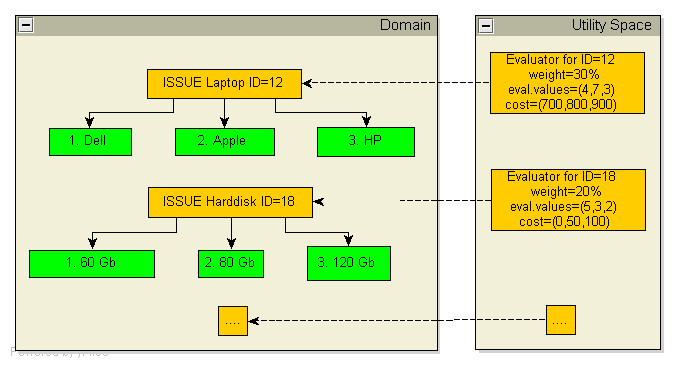
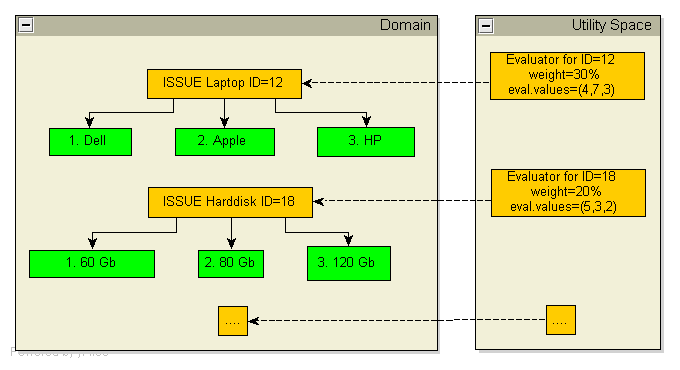
Updating manual, work in progress

Changed region(s): [[0.7103, 0.5649, 0.9574, 0.6243], [0.7103, 0.2676, 0.9574, 0.327]]

diff --git a/doc/userguide.tex b/doc/userguide.tex
@@ -46,9 +46,6 @@
 %\fi
 
 
-\newcommand\AI[1]{{}} \newcommand\ANAC[1]{{#1}}
-%\newcommand\AI[1]{{#1}} \newcommand\ANAC[1]{{}}
-
 \usepackage{array}
 \usepackage{url}
 \usepackage{listings}
@@ -76,8 +73,8 @@
 \else
 \usepackage{graphicx}
 \fi
-\title{Negotiation User Guide - \ANAC{ANAC Version}\AI{AI Techniques (IN4010TU) Version}}
-\author{T. Baarslag, W. Pasman, K. Hindriks, D. Tykhonov, W. Visser}
+\title{Negotiation User Guide}
+\author{T. Baarslag, W. Pasman, K. Hindriks, D. Tykhonov, W. Visser, M. Hendrikx}
 
 \date{\today}
 
@@ -113,7 +110,7 @@
 
 \newcommand\Genius{{\sc Genius}}
 
-\abstract{In Genius, you can implement and analyze an agent that negotiates on your behalf. This document describes how you can install the required environment, work with the provided agents, and write, compile, and run such an agent yourself.}
+\abstract{\noindent In \Genius, you can implement and analyze an agent that negotiates on your behalf. This document describes how you can install the required environment, work with the provided agents, and write, compile, and run such an agent yourself.}
 
 \pagebreak
 \tableofcontents
@@ -123,7 +120,7 @@
 This section gives a crash course on some essential theory needed to understand the negotiation system. The negotiation objects that are used in a negotiation and utility values are discussed. 
 
 \subsection{Actions}
-In negotiation, the two parties take turns in doing the next negotiation action. The possible actions are:
+In negotiation, the two parties take turns in doing the next negotiation action. The possible actions implemented in \Genius~are:
 
 \begin{center}
 \begin{tabular}{cm{0.6\textwidth}}
@@ -132,36 +129,35 @@ In negotiation, the two parties take turns in doing the next negotiation action.
 \hline
 \textsc{Offer} & This action indicates that the agent proposes a new bid.\\
 \hline
-\textsc{EndNegotiation} & This action indicates that the agent terminates the entire negotiation, resulting in the reservation value being awarded to both players (see below; normally this is equal to the lowest possible score of zero for both agents).\\
+\textsc{EndNegotiation} & This action indicates that the agent terminates the negotiation, resulting in the reservation value being awarded to both players (see below).\\
 \hline
 \end{tabular}
 \end{center}
 
 \subsection{Negotiation Protocol}
-The negotiation protocol determines the overall order of actions during a negotiation. Agents are obliged to stick to this protocol, and deviations from the protocol are caught and penalized. This section discusses the details of the protocol\AI{ for this assignment}.
+The negotiation protocol determines the overall order of actions during a negotiation. Agents are obliged to stick to this protocol, and deviations from the protocol are caught and penalized. This section discusses the details of the default alternating offers protocol used in \Genius.
 
-Agent $A$ and $B$ take turns in the negotiation. One of the two agents is picked at random to start. When it is the turn of agent $X$ (X being $A$ or $B$), that agent is informed about the action taken by the opponent. If the action was an \textsc{Offer}, agent $X$ is subsequently asked to determine its next action and the turn taking goes to the next round. If it is not an \textsc{Offer}, the negotiation has finished. The turn taking stops and the final score (utility of the last bid) is determined for each of the agents, as follows:
+Agent $A$ and $B$ take turns in the negotiation. Agent $A$ starts the negotiation. When it is the turn of agent $X$ (X being $A$ or $B$), that agent is informed about the action taken by the opponent. If the action was an \textsc{Offer}, agent $X$ is subsequently asked to determine its next action and the turn taking goes to the next round. If it is not an \textsc{Offer}, the negotiation has finished. The turn taking stops and the final score (utility of the last bid) is determined for each of the agents, as follows:
 \begin{itemize}
 	\item the action of agent $X$ is an \textsc{Accept}. This action is possible only if the opponent actually did a bid. The last bid of the opponent is taken, and the utility of that bid is determined in the utility spaces of agent $A$ and $B$. The opponent is informed of this accept via the ReceiveMessage method (but now without the subsequent chooseAction).
-	\item the action returned is an \textsc{EndNegotiation}. The score of both agents is set to their reservation value.
+	\item the action returned is an \textsc{EndNegotiation}, which may be presented by an agent, or when the deadline has passed. The score of both agents is set to their reservation value.
 \end{itemize}
 
-So far for the protocol. If an agent does not follow this protocol, for instance by sending another action that is not one of the above or by crashing, the agents will also \ANAC{get their reservation values}\AI{score zero}. If the agent deviates grossly from the protocol in such a way that it endangers the negotiation simulator itself, it may be disqualified entirely.
+So far for the protocol. If an agent does not follow this protocol, for instance by sending another action that is not one of the above or by crashing, the agents will also get their reservation values. If the agent deviates grossly from the protocol in such a way that it endangers the negotiation simulator itself, it may be disqualified entirely.
  
 \subsection{Reservation Value}
+A reservation value is a real-valued constant that sets a threshold below which a rational agent should not accept any offers. Intuitively, a reservation value is the utility associated with the Best Alternative to a Negotiated Agreement (BATNA). A reservation value is the utility that an agent will obtain if no agreement is realized in a negotiation session. This can happen either by breaking off the negotiation (a non-zero reservation value makes breaking off potentially interesting) or by not reaching an agreement before the deadline associated with a negotiation session. In other words: either the negotiating parties agree on an outcome $\omega$, and both agents receive the associated utility of $\omega$, or: no agreement is reached, and both agents receive their reservation value instead.
 
-A reservation value is a real-valued value that sets a threshold below which a rational agent should not accept any offers. Intuitively, a reservation value is the utility associated with a Best Alternative to a Negotiated Agreement (BATNA). A reservation value is the utility that an agent will obtain if no agreement is realized in a negotiation session. This can happen either by breaking off the negotiation (a non-zero reservation value makes breaking off potentially interesting) or by not reaching an agreement before the deadline associated with a negotiation session. In other words: either the negotiating parties agree on an outcome $\omega$, and both agents receive the associated utility of $\omega$, or: no agreement is reached, and both agents receive their reservation value instead.
-
-Reservation values typically are different for each of the negotiating agents that negotiate in a session. In case no reservation value is set in a profile, the reservation value of an agent is set to zero (0). Given that utilities for outcomes range from 0 to 1, this essentially is the same as having no reservation value.
+Reservation values typically are different for each of the negotiating agents that negotiate in a session. In case no reservation value is set in a profile, the reservation value of an agent is set to zero (0).
 
 
 \subsection{Time available for a Session}
+A negotiation lasts a predefined time in seconds, or alternatively, rounds. Note the difference between time and rounds: in a time-based protocol the computational cost of an agent should be taken into account as it directly influences the amount of bids which can be made. In contrast, for a rounds-based negotiation the time can be thought of as frozen inside a round; therefore computational cost does not play a role.
 
-Normally, each negotiation session is allowed to last at most 180 seconds. If no agreement has been reached before this time, the negotiation will be terminated by killing the negotiation agents, and the utility of both parties will be their reservation value (normally 0). Only if (at least) one of the agents is a GUI agent requiring user input, the deadline is set to 1800 seconds. Notice that manipulation of the available time (by delaying the response of the agent) can be an important factor influencing the negotiation results, and one improvement for the example agent (SimpleAgent) would be to be more careful about this.
+Normally, each negotiation session is allowed to last at most 180 seconds. If no agreement has been reached before this time, the negotiation will be terminated by killing the negotiation agents, and the utility of both parties will be their reservation value (normally 0). Only if (at least) one of the agents is a GUI agent requiring user input, the deadline is set to 1800 seconds. Notice that manipulation of the available time (by delaying the response of the agent) can be an important factor influencing the negotiation results.
 
-Note that in the negotiation environment, the time line is \emph{normalized}, i.e.: time $t \in [0, 1]$, where $t = 0$ represents the start of the negotiation, and $t = 1$ represents the deadline. Agents should not rely on the assumption that the negotiation time window corresponds to 180 seconds in real--time, but are required only to rely on the normalized time. 
-
-\subsubsection{Discounting}
+Note that in the negotiation environment, the time line is \emph{normalized}, i.e.: time $t \in [0, 1]$, where $t = 0$ represents the start of the negotiation, and $t = 1$ represents the deadline. Agents should not rely on the assumption that the negotiation time window corresponds to 180 seconds in real--time, but are required only to rely on the normalized time.
+\newline \newline
 Apart from a deadline, a scenario may also have \emph{discount factors}. Discount factors devaluate the value of the issues under negotiation as time passes. Time is shared between the agents, but the discount is private to, and can different between each agent. The implementation of discount factors is as follows. Let $d$ in $[0, 1]$ be the discount factor that is specified in the preference profile of an agent. Let $t$ in $[0, 1]$ be the current normalised time, as defined by the timeline. We compute the discounted utility $U_D^t$ of an outcome $\omega$ from the undiscounted utility function $U$ as follows:
 \begin{eqnarray}
 U_D^t(\omega) = U(\omega) \cdot d^t
@@ -170,14 +166,12 @@ If $d = 1$, the utility is not affected by time, and such a scenario is consider
 
 If a discount factor is present, reservation values will be discounted in exactly the same way as the utility of any other outcome. It is worth noting that, by having a discounted reserve price, it may be rational for an agent to break off the negotiation early and take the outside option.
 
-Note that, as opposed to having a fixed number of rounds, both the discount factor and deadline are measured in {\it real time}. This, in turn, introduces another factor of uncertainty since it is unknown to the agents how many negotiation rounds there will be, and how much time an opponent requires to compute a counter offer. Also, this computational time will typically change depending on the size of the outcome space. 
-
 \subsection{Negotiation Objects}
 The central data structures in the negotiation are the bid and the utilityspace. Both work in a domain. Figure~\ref{Fig:data structure and relation overview} shows an overview of the Domain and utility space data structures and their relations.
 
 \begin{figure}[htb]
 	\centering
-	\includegraphics[width=0.4\textwidth]{media/datastructures.png}
+	\includegraphics[width=0.5\textwidth]{media/datastructures.png}
 	\caption{Overview of the data structures and relations.}\label{Fig:data structure and relation overview}
 \end{figure}
 
@@ -197,34 +191,14 @@ The exact formula for computation of the utilities is given in Equation~\ref{eqn
 
 The {\bf bid} is a set of values for each of the issues in the domain.
 
-\subsection{Utility of a Bid}
-
-A bid is a set of chosen values $v_1, \ldots, v_n$  for each of the $N$ issues. Each of these values has been assigned an evaluation value $\text{eval}(v_i)$ in the utility space. \AI{Sometimes, there are also fixed costs $\text{cost}(v_i)$ associated with each value.} The utility is the weighted sum of the normalized evaluation values\AI{, under the assumption that the cost is below the maximum cost of $M$. If the maximum cost is exceeded, the utility is zero}.
+\subsection{Optimality of a Bid}
+A bid is a set of chosen values $v_1, \ldots, v_n$  for each of the $N$ issues. Each of these values has been assigned an evaluation value $\text{eval}(v_i)$ in the utility space. The utility is the weighted sum of the normalized evaluation values.
 
 \begin{equation}
 	U(v_1, \ldots, v_n) = \sum_{i=1}^{N} w_i \dfrac{\text{eval}(v_i)}{\text{max}(\text{eval}(v_i))}
-	\ANAC{\label{eqn:Utility}}
+	\label{eqn:Utility}
 \end{equation}
 
-\AI
-{
-And when costs are associated with the domain:
-
-\begin{equation}
-	\text{Utility}(v_1, \ldots, v_n) = 
-		\begin{dcases*}
-			U(v_1, \ldots, v_n) & if CostSum$(v_1, \ldots, v_n) \leq M$\\
-			0 & if CostSum$(v_1, \ldots, v_n) > M$\\
-		\end{dcases*}
-		\AI{\label{eqn:Utility}}
-\end{equation}
-
-
-\begin{equation}
-	\text{CostSum}(v_1, \ldots, v_n) = \sum_{i=1}^{N} \text{cost}(v_i)
-\end{equation}
-}
-\subsection{Optimality of a Bid}
 For a single agent, the optimal bid is of course one with a maximum utility. But a more general notion of optimality of a negotiation involves the utility of both agents. Figure~\ref{Fig:utility plot} shows the utilities of all bids for the two parties in the negotiation. 
  
 \begin{figure}[htb]
@@ -233,7 +207,7 @@ For a single agent, the optimal bid is of course one with a maximum utility. But
 \caption{Utility plot. Each point indicates the utility for both agents of a particular bid. The red line is the Pareto optimal frontier.}\label{Fig:utility plot}
 \end{figure}
 
-There are multiple ways to define a more global ``optimum''. One approach to optimality is that a bid is not optimal for both parties if there is another bid that has the higher utility for one party, and at least equal utility for the other party. Thus, only bids in Figure 2 for which there is no other bid at the top right is optimal. This type of optimality is called Pareto optimality. The collection of Pareto optimal points is called the Pareto optimal frontier. Another approach is the Nash optimality. A Nash solution is a bid for which the product of the utilities of both agents is maximal. 
+There are multiple ways to define a more global ``optimum''. One approach to optimality is that a bid is not optimal for both parties if there is another bid that has the higher utility for one party, and at least equal utility for the other party. Thus, only bids in Figure 2 for which there is no other bid at the top right is optimal. This type of optimality is called Pareto optimality. The collection of Pareto optimal points is called the Pareto optimal frontier. Another approach is the Nash optimality. The Nash solution is the set of bids for which the product of the utilities of both agents is maximal. 
  
 \section{Installing the Environment}
 
@@ -244,11 +218,9 @@ You can run the negotiation environment on most systems running Java version 5 o
 To install the environment, the file \texttt{negotiator.zip} can be downloaded. Unzip the file at a convenient location on your machine. This will result in a package containing the following files:
 
 \begin{itemize}
-	\AI{\item \texttt{assignment.pdf}, containing the assignment;}
 	\item \texttt{userguide.pdf}, this document;
 	\item \texttt{negosimulator.jar}, the negotiation simulator;
 	\item a \texttt{templates} folder, containing various domain spaces, all with a few sample utility spaces (xml files);
-	\AI{\item The \texttt{SimpleAgent.java} and \texttt{SimpleAgent.class} file.}
 \end{itemize}
 
 \subsection{Progress \& Error Messages}
@@ -342,7 +314,7 @@ After these fields have been set appropriately, you can press the Start button t
 
 If you selected an automatic negotiation agent, for instance SimpleAgent, there will not appear any window while that agent has the turn. The agent should pose its bid within a reasonable time. After the agent made its bid, the other agent is given the turn. If both agents are automatic, no windows will appear at all during the entire negotiation, and only the output windows will show the ongoing negotiation results.
 
-\AI{
+
 	\subsection{Using the UIAgent}
 
 	If you selected the UIAgent for Agent A/B, the window as shown in Figure~\ref{Fig:uiagent gui} will pop up every time input from negotiation agent A/B is needed.
@@ -380,7 +352,7 @@ If you selected an automatic negotiation agent, for instance SimpleAgent, there 
 		\includegraphics[width=0.4\textwidth]{media/image14.png}
 	\caption{The GUI of UIAgent Extended.}\label{Fig:uiagent extended gui}
 	\end{figure}
-}
+
 \subsection{Negotiation Results}
 
 There are two types of results: the utility plot and the utility of the last bid for each round. Both are shown in the Progress tab, as displayed in Figure~\ref{Fig:progress}.
